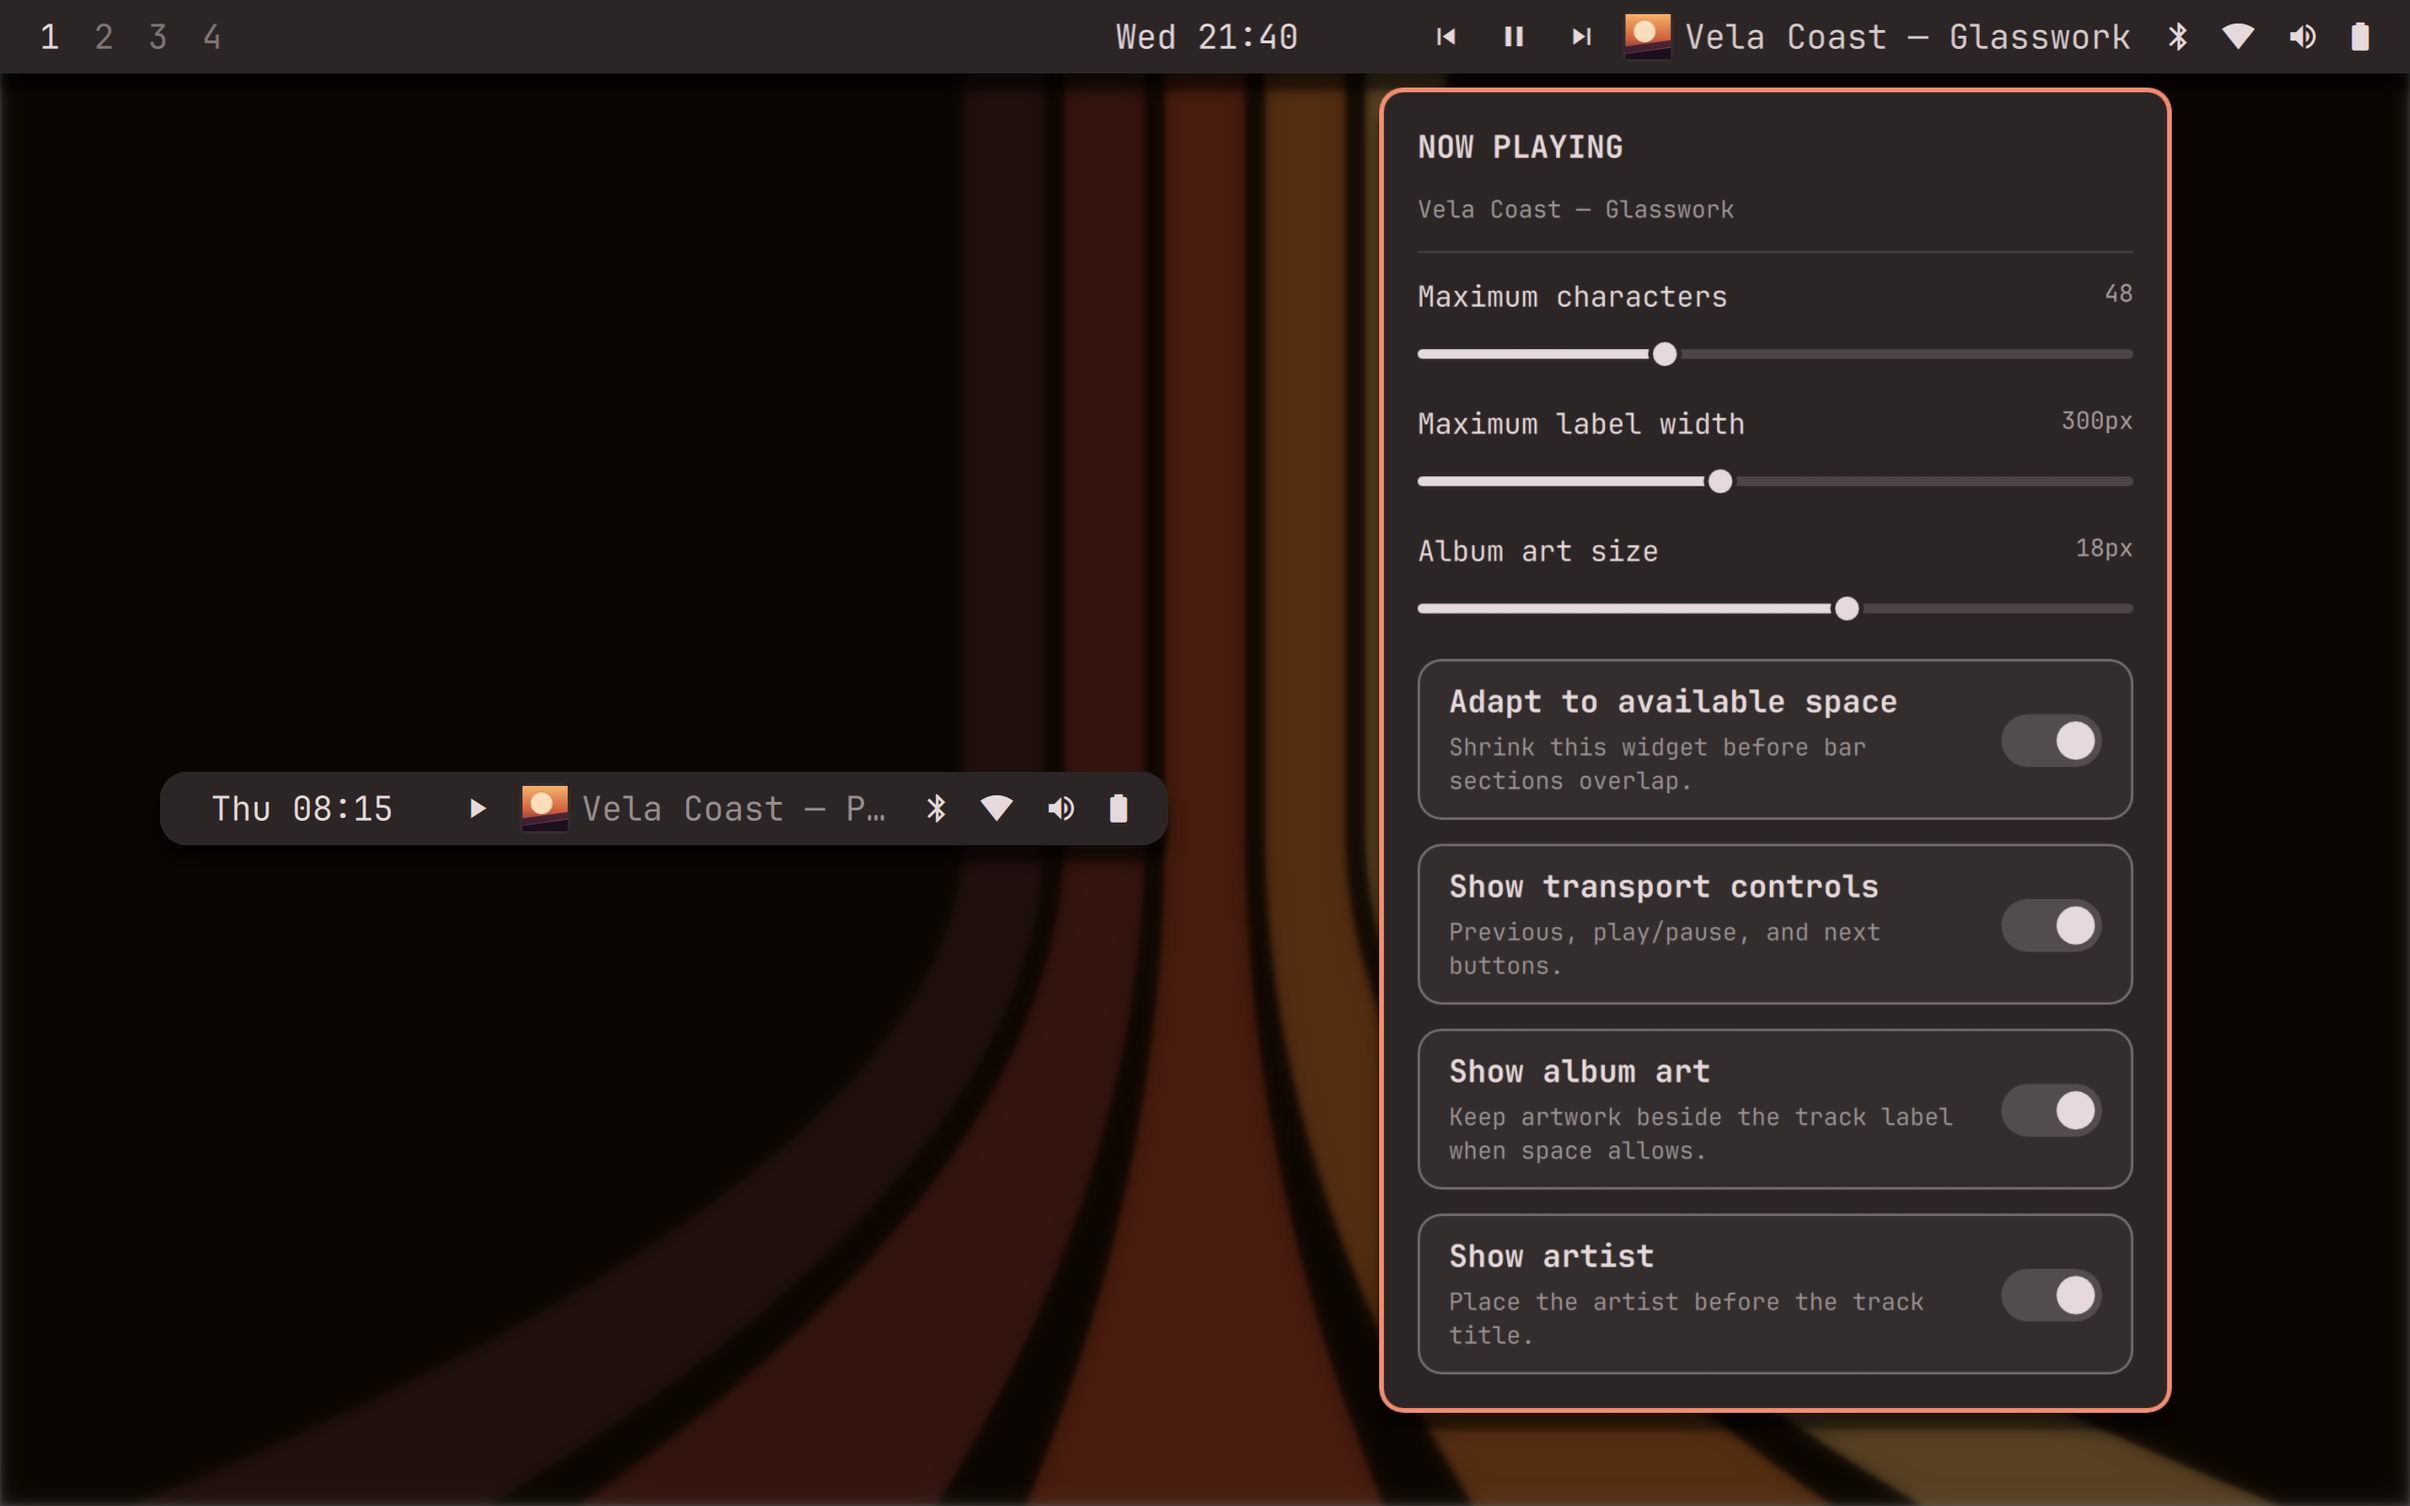
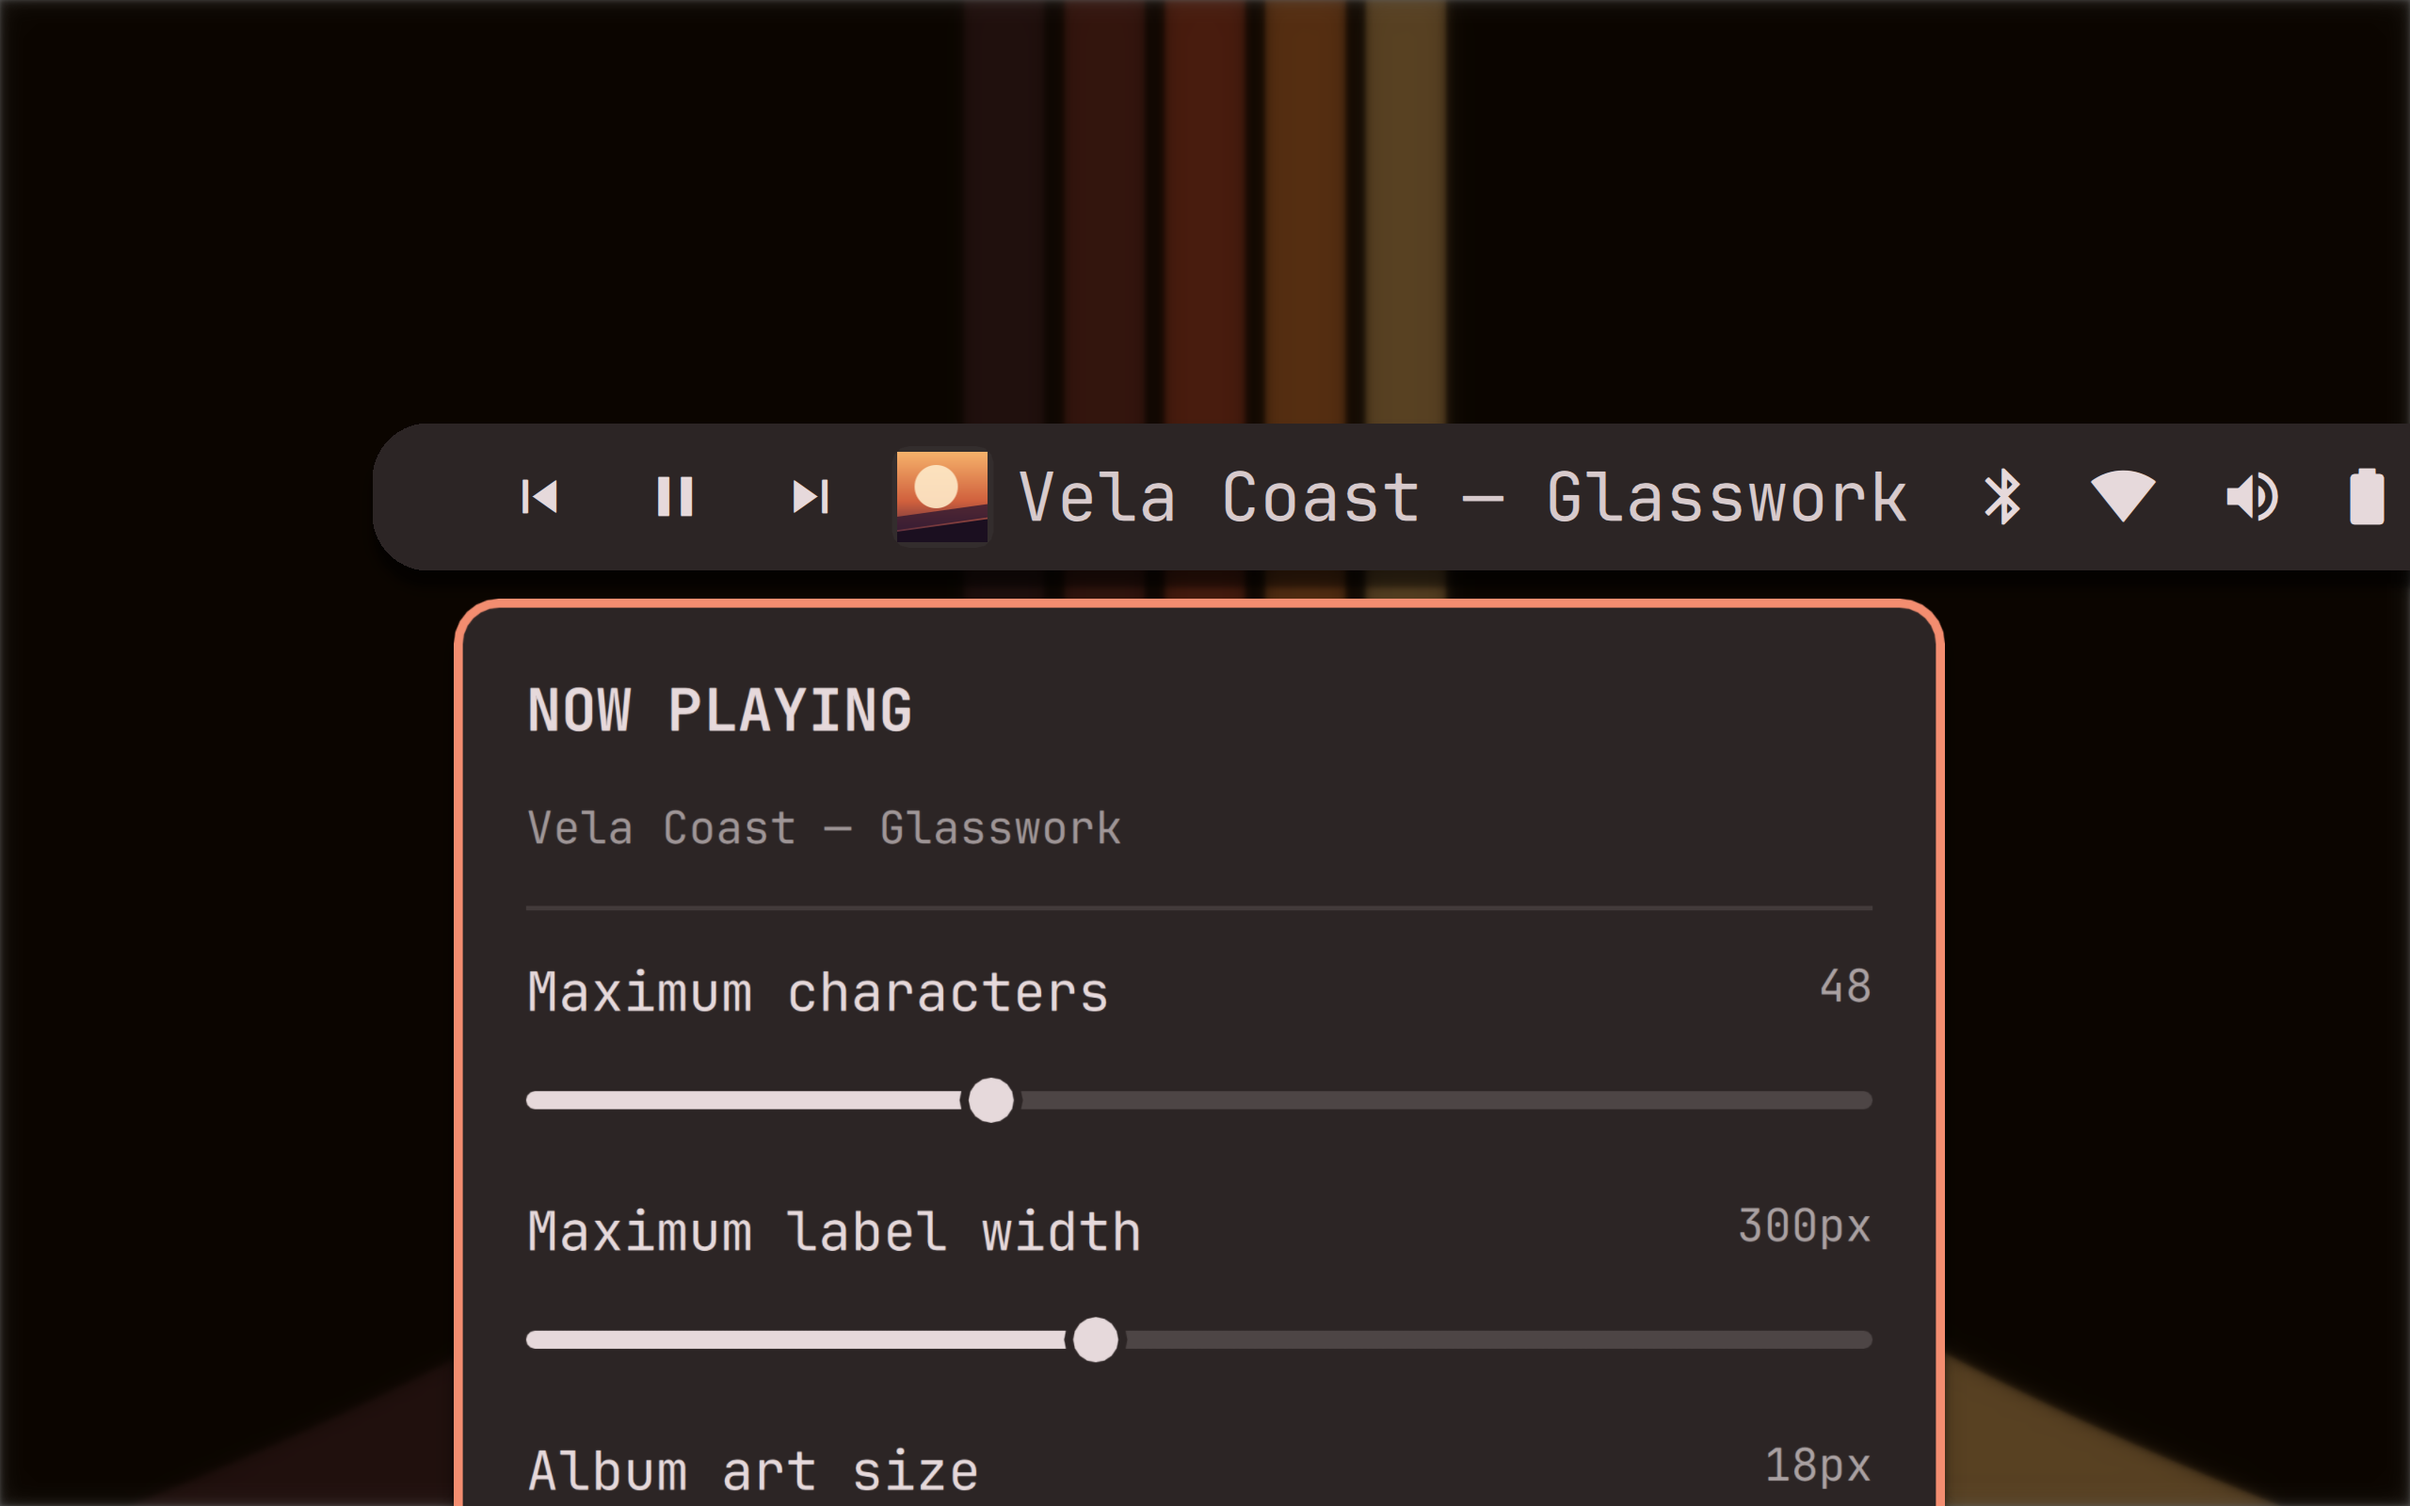
Zoom the marketplace preview in on the widget and its panel
The marketplace card shows only a wide strip from the middle of the
preview, so the bar at the top and the small panel text were unreadable.
Capture at 6x and compose the bar segment with the widget large in the
middle band, flush with the right edge, and the appearance panel opening
under it and running off the bottom. Drop the second, narrower bar.

diff --git a/tools/capture/capture.py b/tools/capture/capture.py
@@ -16,7 +16,7 @@ import time
 
 ROOT = Path(__file__).resolve().parents[2]
 TOOLS = Path(__file__).resolve().parent
-SCALE = 3
+SCALE = 6
 WALLPAPER = "/usr/share/omarchy/themes/ristretto/backgrounds/0-launch.png"
 
 
@@ -166,25 +166,28 @@ def capture_all(work, env, shell, plugin, output):
     (output / "capture.log").write_text(log_text)
     (output / "cover.png").unlink(missing_ok=True)
 
-    # Compose the 2560x1600 marketplace preview: bars at 1:1, settings at 85%.
-    sizes = {name: png_size(output / name) for name in ["bar.png", "bar-compact.png", "settings.png"]}
+    # Compose the 2560x1600 marketplace preview. The marketplace card shows
+    # only a strip about 2.7 times as wide as it is tall from the vertical
+    # middle, and websites crop to 16:9, so the widget is shown large in the
+    # middle band: the bar from just before the widget to its right edge,
+    # flush with the canvas edge like the real bar, and the appearance panel
+    # opening under it and running off the bottom.
+    sizes = {name: png_size(output / name) for name in ["bar.png", "settings.png"]}
     bar_w, bar_h = sizes["bar.png"]
-    compact_w, compact_h = sizes["bar-compact.png"]
     settings_w, settings_h = sizes["settings.png"]
     margin = 5 * SCALE  # Style.gapsOut between bar and popup.
-    # The settings card is taller than the canvas: show it at 85%.
-    card_h = round(settings_h * .85)
-    card_w = round(settings_w * .85)
-    widget_center = round((geometry["x"] + geometry["width"] / 2) * SCALE)
+    clip_x = round((geometry["x"] - 14) * SCALE)
+    # The rounded right end runs off the canvas, inside the tray margin.
+    bar_x, bar_y = 2560 - (bar_w - clip_x) + 10 * SCALE, 450
+    # The panel is shown at 80% so its toggles start inside the crops.
+    card_w, card_h = round(settings_w * .8), round(settings_h * .8)
+    widget_center = bar_x + round((geometry["x"] + geometry["width"] / 2) * SCALE) - clip_x
     card_x = max(40, min(widget_center - card_w // 2, 2560 - card_w - 40))
-    # The compact bar is cropped to its right half, from the clock that
-    # squeezes the widget to the bar's right edge.
-    clip_x = round((geometry["compactClockX"] - 12) * SCALE)
+    card_y = bar_y + bar_h + margin
     layout = [
-        dict(file="bar.png", x=0, y=0, width=2560, height=bar_h),
-        dict(file="settings.png", x=card_x, y=bar_h + margin, width=card_w, height=card_h),
-        dict(file="bar-compact.png", x=170, y=820, width=compact_w - clip_x, height=compact_h,
-             clip=[clip_x, 0, compact_w - clip_x, compact_h], radius=10 * SCALE),
+        dict(file="bar.png", x=bar_x, y=bar_y, width=bar_w - clip_x, height=bar_h,
+             clip=[clip_x, 0, bar_w - clip_x, bar_h], radius=10 * SCALE),
+        dict(file="settings.png", x=card_x, y=card_y, width=card_w, height=card_h),
     ]
     print("layout", layout, file=sys.stderr)
     env.update(QT_QPA_PLATFORM=f"offscreen:configfile={work / 'compose.json'}", QT_SCALE_FACTOR="1",

diff --git a/README.md b/README.md
@@ -65,9 +65,10 @@ width, and a maximum artist/title character count.
 ## Screenshots
 
 `preview.png` shows the actual widget and its appearance panel with synthetic
-data: an invented artist and tracks and a self-drawn abstract cover. The top
-bar shows the full layout while playing; the smaller bar is a narrower bar
-where adaptive sizing has dropped previous/next for a paused track.
+data: an invented artist and tracks and a self-drawn abstract cover. It shows
+the full layout while playing, with the panel opened under it, large and in the
+middle of the image, because the marketplace card shows only a wide strip from
+the middle and websites crop it to 16:9.
 
 `tools/capture/` copies the production `BarWidget.qml`, `BarGeometry.js`,
 `ServiceSource.qml` and `TextLimit.js` into a temporary offscreen Quickshell
